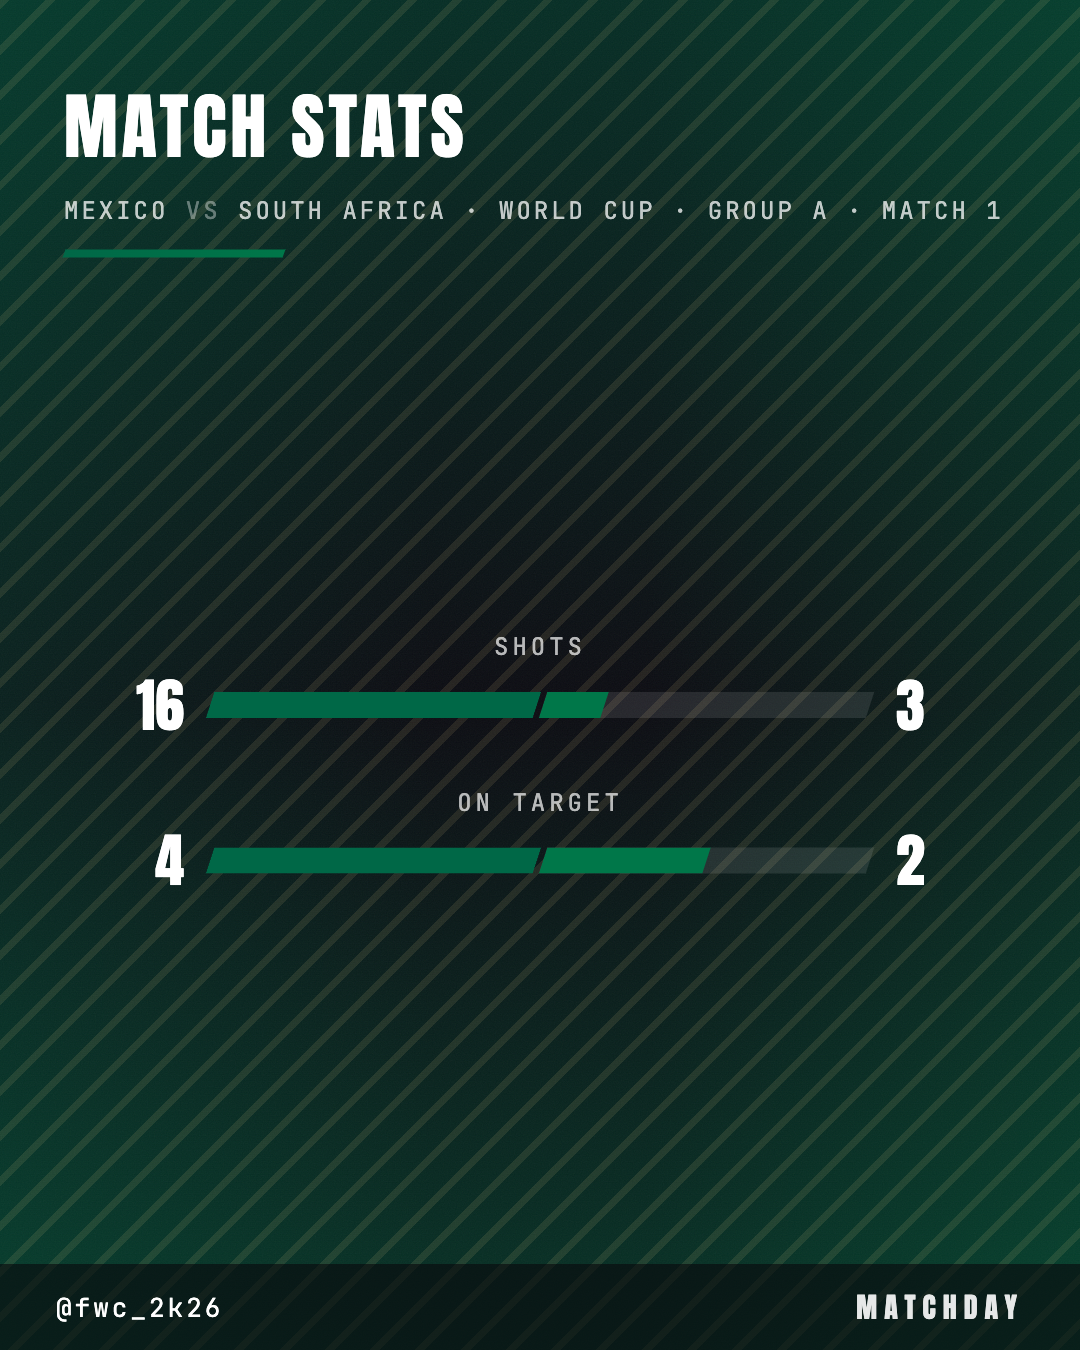
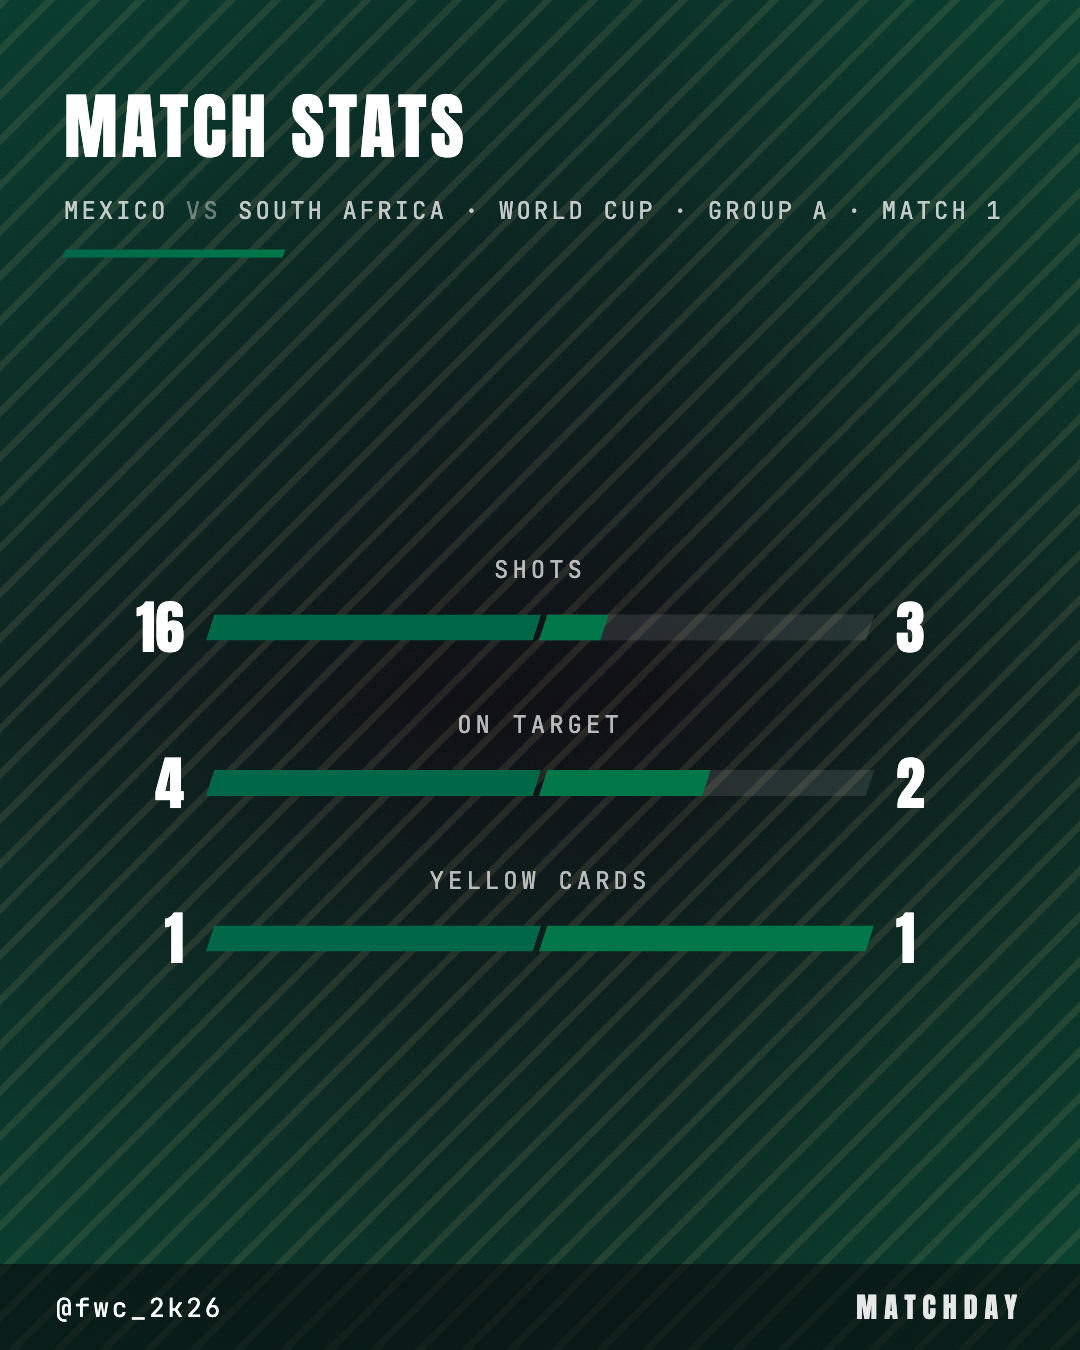
Auto-derive yellow cards; flexible stats editor (add/rename/remove any stat)

Changed region(s): [[0.1222, 0.4044, 0.8556, 0.7156], [0.7333, 0.4356, 0.7639, 0.4667]]

diff --git a/CarouselStudio.html b/CarouselStudio.html
@@ -137,8 +137,10 @@ input[type=file]::file-selector-button:hover{border-color:var(--acc);color:var(-
 .add{background:transparent;border:1px dashed var(--line2);color:var(--mut);border-radius:10px;padding:10px 16px;font-size:13px;font-weight:700;cursor:pointer;font-family:inherit;transition:.15s;}
 .add:hover:not(:disabled){border-color:var(--acc);color:var(--acc);}
 .add:disabled{opacity:.4;cursor:not-allowed;}
-.strow{display:grid;grid-template-columns:90px 1fr 90px;gap:10px;align-items:center;margin-bottom:8px;}
+.strow{display:grid;grid-template-columns:78px 1fr 78px 34px;gap:8px;align-items:center;margin-bottom:8px;}
 .strow .stl{text-align:center;font-family:'JetBrains Mono',monospace;font-size:10.5px;letter-spacing:1.5px;color:var(--mut);text-transform:uppercase;}
+.strow .stname{text-align:center;font-family:'JetBrains Mono',monospace;font-size:11px;letter-spacing:1px;text-transform:uppercase;}
+.strow .del{background:transparent;border:1px solid var(--line);color:var(--bad);border-radius:9px;height:40px;cursor:pointer;transition:.15s;}
 .photo-row{display:flex;gap:12px;align-items:center;flex-wrap:wrap;margin-top:14px;}
 .photo-thumb{width:54px;height:54px;border-radius:12px;background:var(--well);border:1px solid var(--line);object-fit:cover;}
 @media (max-width:680px){
@@ -330,8 +332,16 @@ input[type=file]::file-selector-button:hover{border-color:var(--acc);color:var(-
 
   <!-- Stats editor -->
   <div class="panel">
-    <h2><span class="step">04</span>Match stats<span class="hint">Team A | Team B</span></h2>
+    <h2><span class="step">04</span>Match stats<span class="hint">Team A | name | Team B</span></h2>
     <div id="strows"></div>
+    <datalist id="statpresets">
+      <option value="Possession"></option><option value="Shots"></option><option value="On target"></option>
+      <option value="xG"></option><option value="Corners"></option><option value="Fouls"></option>
+      <option value="Free kicks"></option><option value="Offsides"></option><option value="Passes"></option>
+      <option value="Yellow cards"></option><option value="Red cards"></option><option value="Saves"></option>
+      <option value="Tackles"></option>
+    </datalist>
+    <button class="add" id="addStat">+ Add stat</button>
   </div>
 
   <!-- MOTM editor -->
@@ -567,13 +577,29 @@ function renderStats(){
   const box=$("strows");box.innerHTML="";
   Object.keys(S.stats).forEach(k=>{
     const row=document.createElement("div");row.className="strow";
-    row.innerHTML=`<input type="number" step="any" min="0" value="${S.stats[k][0]}"><span class="stl">${esc(k)}</span><input type="number" step="any" min="0" value="${S.stats[k][1]}">`;
-    const [a,b]=row.querySelectorAll("input");
+    row.innerHTML=`<input type="number" step="any" min="0" value="${S.stats[k][0]}">`
+      +`<input class="stname" type="text" list="statpresets" value="${esc(k)}" placeholder="stat name">`
+      +`<input type="number" step="any" min="0" value="${S.stats[k][1]}">`
+      +`<button class="del" aria-label="Remove">✕</button>`;
+    const a=row.children[0],nameI=row.children[1],b=row.children[2];
     a.oninput=e=>{S.stats[k][0]=parseFloat(e.target.value)||0;drawOutput();};
     b.oninput=e=>{S.stats[k][1]=parseFloat(e.target.value)||0;drawOutput();};
+    nameI.onchange=e=>{
+      const nn=e.target.value.trim();
+      if(!nn||(nn!==k&&Object.prototype.hasOwnProperty.call(S.stats,nn))){renderStats();return;} // empty or duplicate -> revert
+      if(nn!==k){const o={};Object.keys(S.stats).forEach(key=>{o[key===k?nn:key]=S.stats[key];});S.stats=o;renderStats();drawOutput();}
+    };
+    row.querySelector(".del").onclick=()=>{delete S.stats[k];renderStats();drawOutput();};
     box.appendChild(row);
   });
 }
+$("addStat").onclick=()=>{
+  // add the first common stat you don't already have, else a numbered blank
+  const presets=["Possession","Shots","On target","xG","Corners","Fouls","Free kicks","Passes","Offsides","Yellow cards","Red cards","Saves","Tackles"];
+  let name=presets.find(p=>!(p in S.stats));
+  if(!name){let i=1;while(("Stat "+i) in S.stats)i++;name="Stat "+i;}
+  S.stats[name]=[0,0];renderStats();drawOutput();
+};
 renderStats();
 
 /* ---------- editor: MOTM ---------- */
